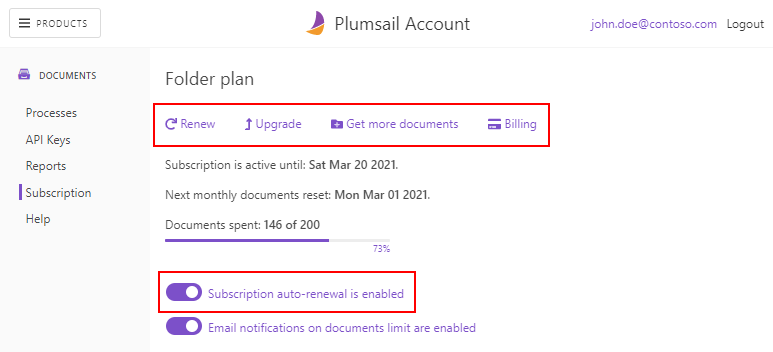
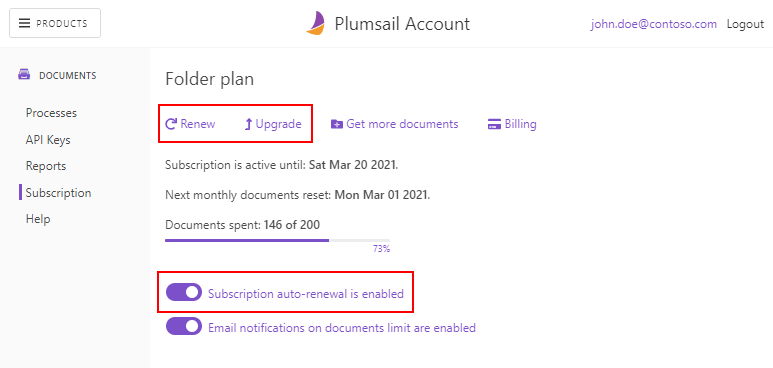
Documents subscription page

diff --git a/source/user-guide/manage-email-notifications.rst b/source/user-guide/manage-email-notifications.rst
@@ -1,16 +1,89 @@
 Subscription and notifications
 ==============================
 
-The subscription page provides information about your current subscription and available documents.
-Also, you can manage email notifications about reaching the limit of documents for Plumsail Documents in the `personal account <https://account.plumsail.com/documents/subscription>`_.
+.. contents::
+    :local:
+    :depth: 2
 
-If you enable the notification toggle, you will receive notifications when:
+Email notifications
+-------------------
 
-- less than 30% of documents are left,
-- less than 10% of documents are left,
-- all documents were exhausted.
+On a `subscription page`_ of the Plumsail account, switch the **notifications toggle** to change the preference.
+You will receive messages to the account's email when:
 
-.. image:: ../_static/img/general/documents-email-notifications.png
-   :alt: Documents email notifications
+* less than 30% of documents are left,
+* less than 10% of documents are left,
+* all documents were exhausted.
 
-You'll receive the notifications to the account's email address, please make sure that the emails don't go to your spam folder.
+Please make sure that they don't get to your spam folder.
+
+|notifications|
+
+How to manage subscription
+--------------------------
+
+On the `subscription page`_, click **Renew** or **Upgrade** to place an accordant order.
+The **auto-renewal toggle** is available when your last order was paid with a credit card.
+
+|subscription|
+
+How to increase the monthly limit of documents
+----------------------------------------------
+
+On the `subscription page`_, click **Get more documents** to purchase additional 100 documents.
+The replenished documents will not remain after another monthly reset or renewal.
+
+|limit|
+
+How to manage billing
+---------------------
+
+On the `subscription page`_, click **Billing** to sign into a `2Checkout shopper account`_.
+2Checkout is a payment processor of our store.
+In the account, you can manage the subscription as well and get access to financial information and managing expiration notifications.
+
+|billing|
+
+You will need to enter either an order reference or the email which you used when purchased Documents.
+It may not match with the Plumsail account email.
+
+|myaccount|
+
+On the **myAccount** tab, you will find the list of the recent orders.
+You can display all of them or view details and request a refund of a certain one.
+
+|orders|
+
+On the **Order Lookup** tab, you can seek orders by their numbers or the credit card if it was used.
+
+|lookup|
+
+On the **My Products** tab, you will find the list of subscriptions with detailed information on them.
+Here, you can:
+
+* renew or upgrade a subscription,
+* enable or disable automatic billing,
+* change a payment method for a certain subscription,
+* enable or disable expiration notification.
+
+|myproducts|
+
+.. _`subscription page`: https://account.plumsail.com/documents/subscription
+.. _`2Checkout shopper account`: https://secure.2co.com/myaccount/
+
+.. |notifications| image:: ../_static/img/general/documents-email-notifications.png
+   :alt: Notifications toggle
+.. |subscription| image:: ../_static/img/general/general-licensing-subscription.png
+   :alt: Manage subscription
+.. |limit| image:: ../_static/img/general/general-licensing-limit.png
+   :alt: Manage limit
+.. |billing| image:: ../_static/img/general/general-licensing-billing.png
+   :alt: Manage billing
+.. |myaccount| image:: ../_static/img/general/general-licensing-myaccount.png
+   :alt: 2Checkout MyAccount
+.. |orders| image:: ../_static/img/general/general-licensing-orders.png
+   :alt: 2Checkout orders
+.. |lookup| image:: ../_static/img/general/general-licensing-lookup.png
+   :alt: Lookup orders
+.. |myproducts| image:: ../_static/img/general/general-licensing-myproducts.png
+   :alt: 2Checkout products

diff --git a/source/general/licensing-details.rst b/source/general/licensing-details.rst
@@ -25,57 +25,21 @@ As for actions from the Plumsail Documents connector for Power Automate (Microso
 What happens when all documents are spent?
 ------------------------------------------
 
-You can see usage stats in your `Plumsail Documents account <https://account.plumsail.com/documents/license>`_. If you see that you most likely reach the limit this month, you can purchase `additional 100 documents <https://secure.2checkout.com/order/checkout.php?PRODS=16287655&QTY=1&CART=1&CARD=2&SHORT_FORM=1&ORDERSTYLE=nLWonJWpmHI=&PAY_TYPE=CCVISAMC&SRC=documentation&BACK_REF=https%3A%2F%2Fplumsail.com%2Fstore%2F>`_ or pay a differential cost to `start using another plan <upgrade-renew.html>`_. 
+You can control usage stats in your `Plumsail Documents account <https://account.plumsail.com/documents/subscription>`_.
+If you see that you most likely reach the limit this month, you can purchase `additional 100 documents`_ or pay a differential cost to `start using another plan`_. 
 
 The documents amount will be reset on the 1st day of a month according to your current plan. 
 
 How to upgrade or renew subscription
 ------------------------------------
 
-Open the `Documents subscription page <https://account.plumsail.com/documents/subscription>`_ in your Plumsail account:
-
-|subscription|
-
-You will see a summary and controls for your current subscription.
-The **auto-renewal** toggle is available when your last order was paid with a credit card.
-Clicking **Renew**, **Upgrade** or **Get more documents** will start placing an accordant order.
-The **Billing** link leads to a `2Checkout shopper account <https://secure.2co.com/myaccount/>`_.
-To log into it, you need to enter either order reference or the email which you used when purchased Documents, and it may not match with the Plumsail account email.
-
-|myaccount|
-
-2Checkout is a payment processor of our store.
-In the shopper account, you can do the same financial operations as on the subscription page but it also provides additional opportunities:
-
-* managing notifications about soon expiration of the subscription,
-* changing payment method,
-* tracking the history of financial operations,
-* access to order details,
-* getting financial support.
-
-|myproducts|
-
-Trial subscription
-------------------
-
-Likely you start using Plumsail Documents with a trial.
-It enables you to try our product on a "Drawer" plan.
-The trial period lasts for 30 days.
-Then, you can purchase a subscription right in the Plumsail account.
-If you choose not to purchase the license, the product will stop working.
-
-|trial|
+`Managing the subscription`_ is available right in the Plumsail account.
 
 End-User Software License Agreement
 -----------------------------------
 
 `End-User Software License Agreement <https://plumsail.com/license-agreement/>`_
 
-.. |subscription| image:: ../_static/img/general/general-licensing-subscription.png
-   :alt: Subscription page
-.. |myaccount| image:: ../_static/img/general/general-licensing-myaccount.png
-   :alt: 2Checkout MyAccount
-.. |myproducts| image:: ../_static/img/general/general-licensing-myproducts.png
-   :alt: 2Checkout MyProducts
-.. |trial| image:: ../_static/img/general/general-licensing-trial.png
-   :alt: Trial subscription
+.. _`additional 100 documents`: ../user-guide/manage-email-notifications.html#how-to-increase-the-monthly-limit-of-documents
+.. _`start using another plan`: ./licensing-details.html#how-to-upgrade-or-renew-subscription
+.. _`Managing the subscription`: ../user-guide/manage-email-notifications.html#how-to-manage-subscription
